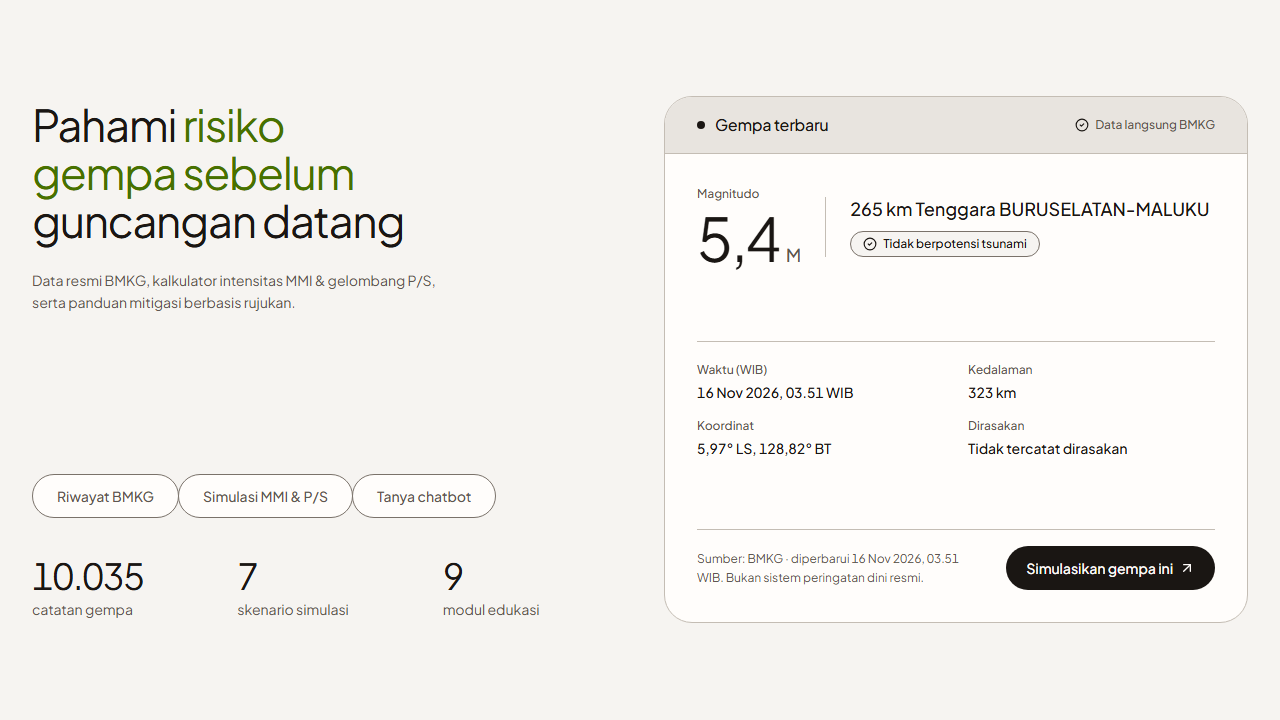
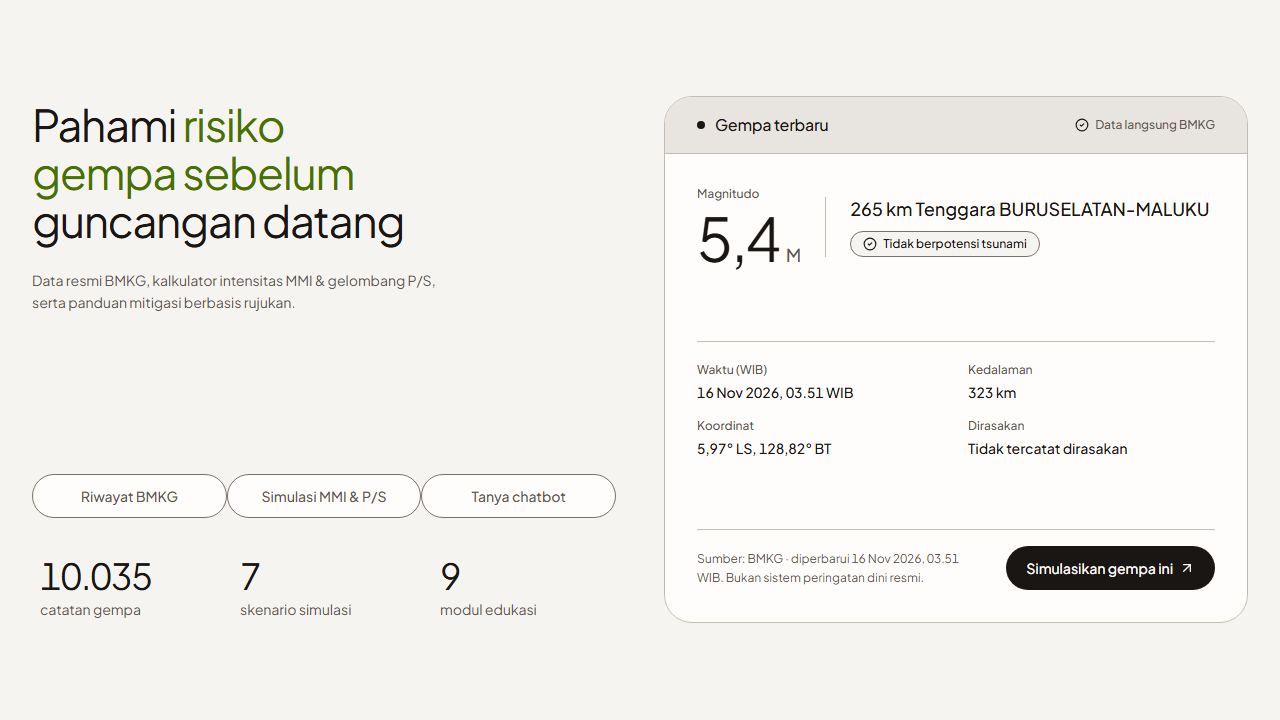
style(beranda): ratakan grid 3 kolom pill dan statistik di section 2

diff --git a/src/app/page.tsx b/src/app/page.tsx
@@ -375,7 +375,7 @@ export default async function HomePage() {
               </div>
 
               <div className="space-y-8 sm:space-y-10">
-                <div className="flex flex-wrap sm:flex-nowrap items-center gap-2 sm:gap-0 sm:-space-x-px">
+                <div className="flex flex-wrap gap-2 sm:grid sm:grid-cols-3 sm:gap-0">
                   {[
                     { href: "/riwayat", label: "Riwayat BMKG" },
                     { href: "/simulasi", label: "Simulasi MMI & P/S" },
@@ -384,14 +384,14 @@ export default async function HomePage() {
                     <Link
                       key={href}
                       href={href}
-                      className="inline-flex items-center justify-center min-h-[44px] rounded-full border border-[var(--color-border-strong)] bg-[var(--color-surface-raised)] px-5 sm:px-6 text-xs sm:text-sm font-medium text-[var(--color-text-secondary)] whitespace-nowrap hover:relative hover:z-10 hover:bg-[var(--color-primary)] hover:border-[var(--color-primary)] hover:text-[var(--color-on-primary)] transition-colors motion-reduce:transition-none focus-visible:relative focus-visible:z-20 focus-visible:outline-2 focus-visible:outline-offset-2 focus-visible:outline-[var(--color-primary-strong)]"
+                      className="inline-flex items-center justify-center min-h-[44px] sm:w-full rounded-full border border-[var(--color-border-strong)] bg-[var(--color-surface-raised)] px-5 sm:px-3 text-xs sm:text-sm font-medium text-[var(--color-text-secondary)] whitespace-nowrap hover:relative hover:z-10 hover:bg-[var(--color-primary)] hover:border-[var(--color-primary)] hover:text-[var(--color-on-primary)] transition-colors motion-reduce:transition-none focus-visible:relative focus-visible:z-20 focus-visible:outline-2 focus-visible:outline-offset-2 focus-visible:outline-[var(--color-primary-strong)]"
                     >
                       {label}
                     </Link>
                   ))}
                 </div>
 
-                <dl className="grid grid-cols-3 gap-3 sm:gap-8">
+                <dl className="grid grid-cols-3 gap-3 sm:gap-4">
                   {[
                     {
                       value: isDbDegraded ? "–" : nf.format(totalGempa),
@@ -406,7 +406,7 @@ export default async function HomePage() {
                       label: "modul edukasi",
                     },
                   ].map(({ value, label }) => (
-                    <div key={label} className="space-y-1.5 min-w-0">
+                    <div key={label} className="space-y-1.5 min-w-0 sm:pl-2">
                       <dd className="text-2xl sm:text-4xl font-normal tracking-[-0.03em] leading-none text-[var(--color-text-primary)] tnum">
                         {value}
                       </dd>
